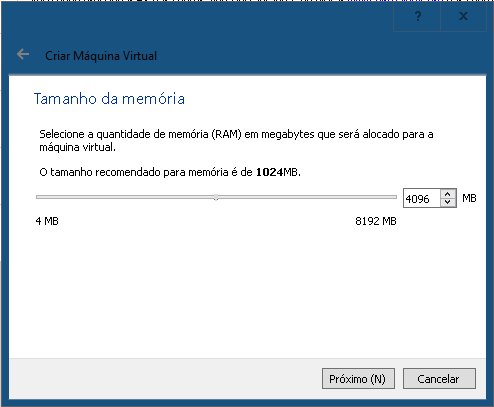
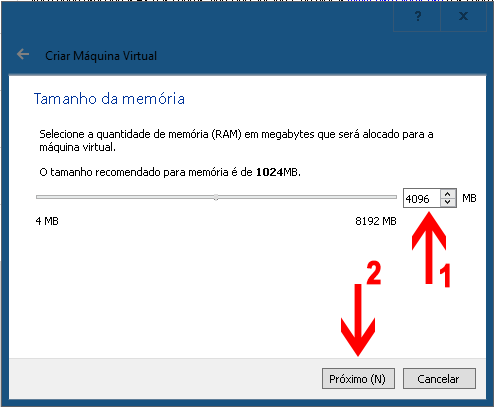
Roteiro concluído

Changed region(s): [[0.668, 0.6192, 0.7895, 0.8845], [0.8198, 0.5012, 0.9109, 0.7076]]

diff --git a/README.md b/README.md
@@ -1,1 +1,71 @@
-# install_debian
+# Roteiro instalação debian 11.0.0 usando o VirtualBox
+
+## **1ª Etapa configuração Máquina Virtual**
+- 1. Este tutorial presume que você tenha o [VirtualBox] (https://www.virtualbox.org/) já instalado.
+- 1. Clique no link [debian.org](https://cdimage.debian.org/debian-cd/current/arm64/iso-dvd/debian-11.0.0-arm64-DVD-1.iso)  para fazer o download da versão 11.0.0, que é a versão stable na data de confecção deste roteiro
+- 2. Terminado o download da iso abra o virtual box,  **Clique em novo**, escreva um nome, escolha a pasta onde será salvo os arquivos da máquina ou deixe o padrão, mude o tipo para linux e a para versão debian x64. ![image](img/1.png)![image](img/2.png)
+- 3. Clique em próximo, coloque a ram em 4096mb  ![image](img/3.png)
+- 4. Clique em próximo, marque a opção **criar um novo disco rigído virtual agora** e clique em criar![image](img/4.png)
+- 5. Continue o processo de criação, marque a opção VDI (Virtual Disk Image) e clique em próximo.<br />![image](img/5.png)
+- 6. Marque a opção Dinamicamente alocado e clique em próximo.<br />![image](img/6.png)
+- 7. Selecione o tamanho da imagem de disco virtual entre 20G a 40GB <br />![image](img/7.png)
+- 8. Após a máquina virtual ter sido criada clique em **configurações** e selecione a **ISO do debian** que você fez o download e **clique em abrir** <br />![image](img/8.png)![image](img/8-1.png)![image](img/8-2.png)![image](img/8-3.png)
+- 9. Agora clique em iniciar para ligar a máquina virtual ![image](img/9.png)
+## **Instalação da Distro do Debian 11 na máquina virtual**
+- 1. Selecione a forma que você prefere que a instalação ocorra iremos usar a **Graphical install** <br />![image](img/10-1.png)
+- 2. Nos próximos passos você irá configurar linguagem. localidade e teclado da distro
+     - 2.1 Selecionar a linguagem da instalação
+    ![image](img/10-2.png)
+     - 2.2 Selecionar sua localidade (País) para configurar o fuso horário 
+    ![image](img/10-3.png)
+     - 2.3 Selecionar a configuração do teclado
+    ![image](img/10-4.png)
+- 3.  Clique em continue e aguarde o instalador carregar os componentes de instalação e configuração dos componentes de rede.
+- 4.  Agora defina o hostname no exemplo foi definido **server-isw**, você pode por qualquer um desde que respeite as regras da distro apenas letras minúsculas (a-z), ou maiúsculas (A-Z), numeros de (0-9) e o sinal de hífen(-)
+    ![image](img/11.png)
+- 5. Defina o nome de dominio do seu servidor "exemplo.com.br"
+    ![image](img/12.png)
+- 6.  Defina a senha do usuário **root**
+    ![image](img/13.png)
+- 7. Configure uma conta para tarefas não-administrativas
+      - 7.1 Defina o nome completo do usuário
+    ![image](img/14.png)
+      - 7.2 Defina o nome de usuário
+    ![image](img/15.png)
+      - 7.3 Defina a senha do usuário
+    ![image](img/16.png)
+- 8. Configurar o fuso horário do rélogio.
+    ![image](img/17.png)
+- 9.  Vamos configurar o particionamento de disco 
+      - 9.1.  selecione **"Assitido - usar o disco inteiro"**
+    ![image](img/18.png)
+      - 9.2.  Selecione o disco que será particionado
+    ![image](img/19.png)
+      - 9.3 Selecione o esquema de particionamento **Todos os arquivos em uma partição ( para iniciantes )**
+    ![image](img/20.png)
+      - 9.4 Confirme o particionamento do disco marque a opção **Finalizar o particionamento e escrever as mudanças no disco**
+    ![image](img/21.png)
+      - 9.5 Confirme clicando em **SIM** para escrever as mudanças no disco que será particionado e continue
+    ![image](img/22.png)
+- 14.  Agora vamos configurar o gerenciador de pacotes
+        - 14.1 Como não temos midias adicionais para serem lidas podemos marcar **NÃO** e continuar.
+        ![image](img/23.png)
+        - 14.2 Marque a opção **SIM** para usar um espelho da rede
+        ![image](img/24.png)
+        - 14.3 Selecione o espelho do repositório de você no nosso caso o **BRASIL** 
+        ![image](img/25.png)
+        - 14.4 Selecione o endereço espelho do repositório Debian normalmente é usado o padrão **deb.debian.org**
+        ![image](img/26.png)
+        - 14.5 Se você usar **proxy** para acessar internet informe-o nessa tela **se não deixe em branco**
+        ![image](img/27.png)
+- 15. Configurando popularity-contest para enviar informações sobre os pacotes mais utilizados para o desenvolvedores da distro, para esse roteiro iremos selecionar **NÃO**.
+- 16. Selecionar os softwares que irão ser instalados no momento da instalação da distro, como podemos instalar após a instalação vamos selecionar apenas as opções **ambiente de área de trabalho no Debian** e **utilitários de sistema padrão** ![image](img/28.png)
+- 17. Vamos instalar o **carregador de inicialização GRUB**, 
+        - 17.1 Marque **SIM** e clique em continuar ![image](img/29.png)
+        - 17.2 Selecionar o dispositivo que será instalado o GRUB ![image](img/30.png)
+- 18. Após o passo anterior a instalação está completa, o sistema irá reinicializar ![image](img/31.png)
+- 19. Na tela do GRUB selecione a opção **Debian GNU/Linux** ![image](img/32.png)
+
+
+## **Instalação concluida com sucesso**
+![image](img/33.png)
